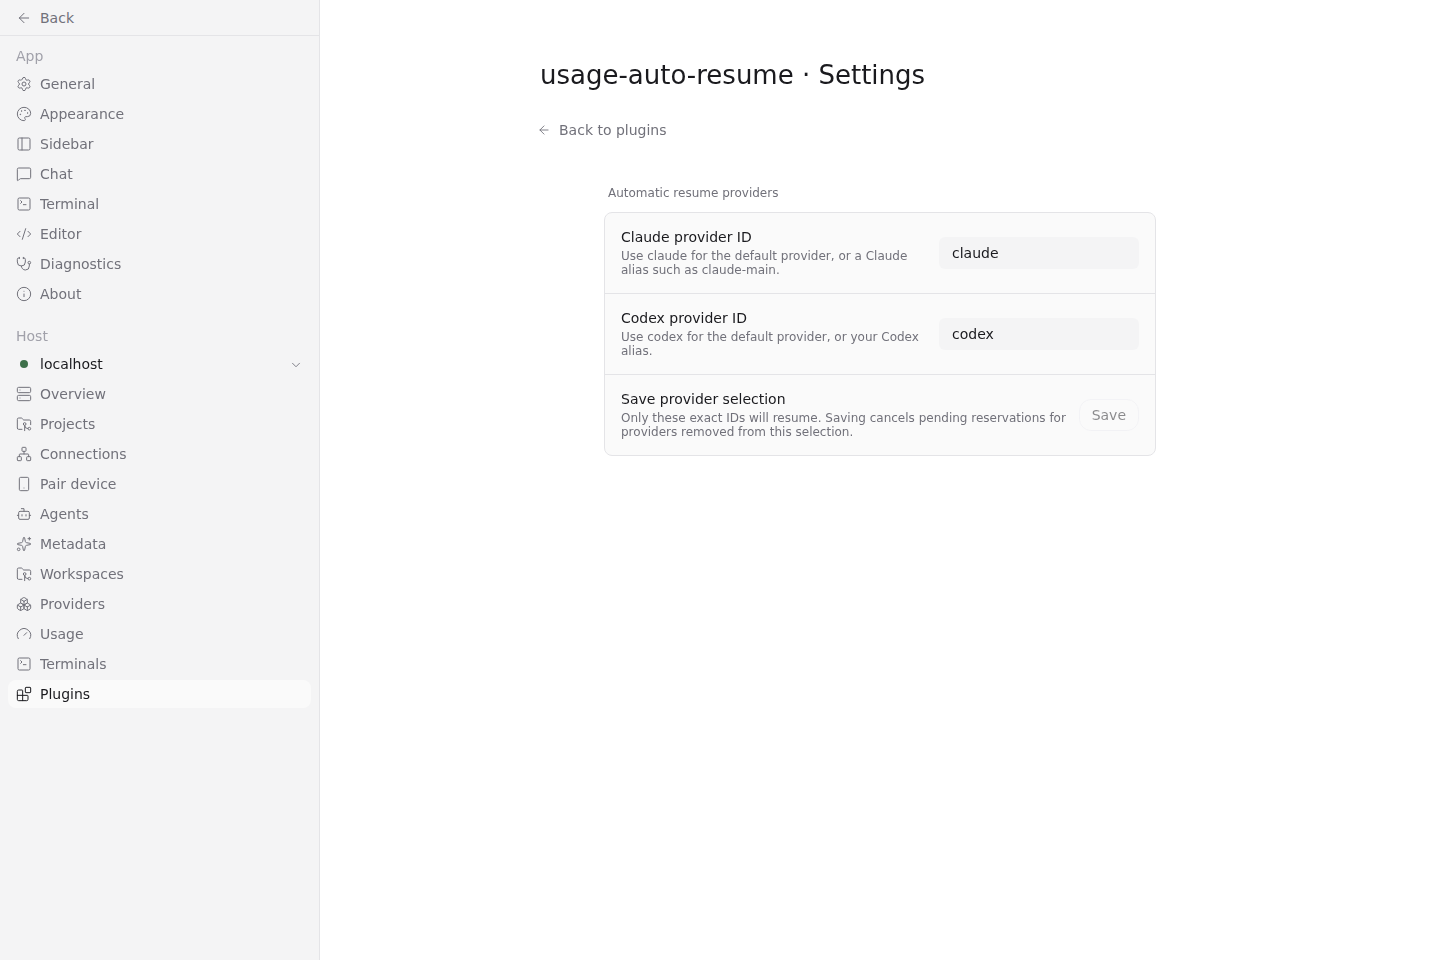
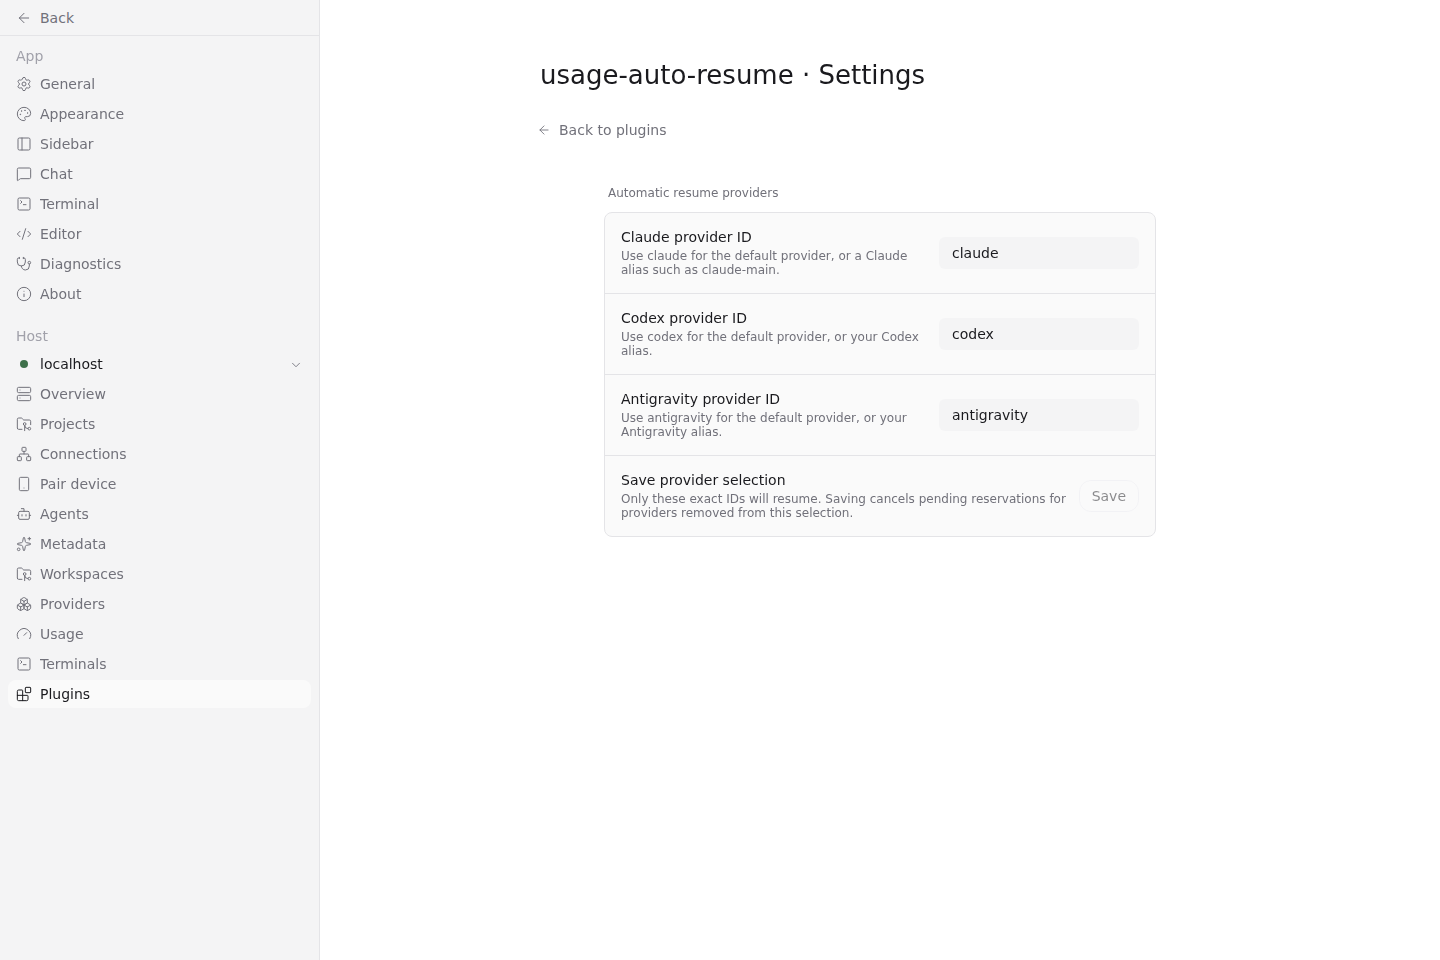
Narrow Antigravity support to what Paseo 0.11 provides
- Drop the Antigravity account email reader: Paseo 0.11 has no
  Antigravity usage source, so its reset comes from the notice or the
  15-minute recheck.
- Parse only the duration right after the reset marker, so compact
  units like "Resets in 97h9m49s" work and digits in a later request ID
  are not added to the wait. Cover agy's real quota notice.
- Drop the capacity_exhausted pattern and the resource_exhausted and
  quota_exceeded codes until they are tested; Paseo's Antigravity
  provider sends no error code.
- Keep settings version 1; the schema default fills antigravityProvider.
- Keep the startup scan's closing-message check Claude-only; Antigravity
  reports limits as turn failures.
- Update the provider settings screenshot.

diff --git a/server/resumer.test.ts b/server/resumer.test.ts
@@ -25,7 +25,6 @@ let dir: string;
 let store: JobStore;
 let clock: Date;
 const savedCodexHome = process.env.CODEX_HOME;
-const savedAntigravityConfigDir = process.env.ANTIGRAVITY_CONFIG_DIR;
 
 const jwt = (claims: Record<string, unknown>) =>
   ["header", Buffer.from(JSON.stringify(claims)).toString("base64url"), "signature"].join(".");
@@ -43,16 +42,12 @@ beforeEach(async () => {
   await signIn(join(dir, "claude"), ".claude.json", { oauthAccount: { emailAddress: MAIN_EMAIL } });
   await signIn(join(dir, "claude-sub"), ".claude.json", { oauthAccount: { emailAddress: SUB_EMAIL } });
   await signIn(join(dir, "codex"), "auth.json", { tokens: { id_token: jwt({ email: CODEX_EMAIL }), access_token: "opaque" } });
-  await signIn(join(dir, "antigravity"), "auth.json", { email: ANTIGRAVITY_EMAIL });
   process.env.CODEX_HOME = join(dir, "codex");
-  process.env.ANTIGRAVITY_CONFIG_DIR = join(dir, "antigravity");
 });
 
 afterEach(async () => {
   if (savedCodexHome === undefined) delete process.env.CODEX_HOME;
   else process.env.CODEX_HOME = savedCodexHome;
-  if (savedAntigravityConfigDir === undefined) delete process.env.ANTIGRAVITY_CONFIG_DIR;
-  else process.env.ANTIGRAVITY_CONFIG_DIR = savedAntigravityConfigDir;
   await rm(dir, { recursive: true, force: true });
 });
 
@@ -65,8 +60,6 @@ interface FakeOptions {
   usage?: Array<{ providerId: string; displayName: string; windows: Array<Record<string, unknown>> }>;
   claudeConfigDir?: string;
   claudeAliasEnv?: Record<string, string>;
-  antigravityConfigDir?: string;
-  antigravityAliasEnv?: Record<string, string>;
   readSettings?: () => Promise<ProviderSettings | null>;
 }
 
@@ -125,13 +118,6 @@ function fakePaseo(agents: Map<string, Partial<PaseoAgent>>, options: FakeOption
               env: { CLAUDE_CONFIG_DIR: options.claudeConfigDir ?? join(dir, "claude") },
             },
             "claude-sub": { extends: "claude", env: { CLAUDE_CONFIG_DIR: join(dir, "claude-sub") } },
-            "antigravity": {
-              env: { ANTIGRAVITY_CONFIG_DIR: options.antigravityConfigDir ?? join(dir, "antigravity") },
-            },
-            "antigravity-main": {
-              extends: "antigravity",
-              env: options.antigravityAliasEnv ?? { ANTIGRAVITY_CONFIG_DIR: options.antigravityConfigDir ?? join(dir, "antigravity") },
-            },
           },
         },
       }),
@@ -667,7 +653,7 @@ test("Antigravity 5h limit: schedules reset + 2 minutes and continues the same a
   assert.deepEqual(sent, [{ agentId: "g1", text: CONTINUE_PROMPT }]);
 });
 
-test("Antigravity limit without a reset in the notice uses the account's usage window", async () => {
+test("Antigravity limit without a reset in the notice rechecks in 15 minutes; Paseo has no Antigravity usage", async () => {
   const usage = [
     {
       providerId: "antigravity",
@@ -678,8 +664,8 @@ test("Antigravity limit without a reset in the notice uses the account's usage w
   const { api, resumer } = await setup({ g1: { provider: "antigravity" } }, { usage });
   await resumer.onTurnEnded(turnEnded("g1", "antigravity", failed("RESOURCE_EXHAUSTED: Quota exceeded")), api);
   const [job] = await store.list();
-  assert.equal(job?.resetAt, "2026-10-06T04:30:00.000Z");
-  assert.equal(job?.dueAt, "2026-10-06T04:32:00.000Z");
+  assert.equal(job?.resetAt, null);
+  assert.equal(job?.dueAt, "2026-10-06T03:15:00.000Z");
 });
 
 test("startup scan schedules an Antigravity agent that hit its limit before the plugin ran", async () => {
@@ -704,22 +690,12 @@ test("a custom Antigravity alias selection resumes only that alias", async () =>
     codexProvider: "codex",
     antigravityProvider: "antigravity-fast",
   };
-  const { api, sent, resumer } = await setup(
+  const { api, resumer } = await setup(
     {
       g1: { provider: "antigravity-fast" },
       g2: { provider: "antigravity" },
     },
-    {
-      readSettings: async () => customSettings,
-      antigravityAliasEnv: { ANTIGRAVITY_CONFIG_DIR: join(dir, "antigravity") },
-      usage: [
-        {
-          providerId: "antigravity",
-          displayName: `Antigravity (${ANTIGRAVITY_EMAIL})`,
-          windows: [{ id: "gemini-5h", label: "Session", usedPct: 100, resetsAt: "2026-10-06T04:00:00.000Z" }],
-        },
-      ],
-    },
+    { readSettings: async () => customSettings },
   );
   await resumer.onTurnEnded(turnEnded("g1", "antigravity-fast", failed("Resource exhausted")), api);
   await resumer.onTurnEnded(turnEnded("g2", "antigravity", failed("Resource exhausted")), api);

diff --git a/server/usage.ts b/server/usage.ts
@@ -83,71 +83,13 @@ async function codexEmail(codexHome: string): Promise<string | null> {
   );
 }
 
-function extractEmailFromObject(data: unknown): string | null {
-  if (!data || typeof data !== "object") return null;
-  const direct =
-    text(field(data, "email")) ??
-    text(field(field(data, "user"), "email")) ??
-    text(field(field(data, "account"), "email")) ??
-    text(field(field(data, "oauthAccount"), "emailAddress"));
-  if (direct) return direct;
-
-  const tokens = field(data, "tokens") ?? field(data, "token") ?? data;
-  const access = jwtClaims(field(tokens, "access_token") ?? field(data, "access_token"));
-  const id = jwtClaims(field(tokens, "id_token") ?? field(data, "id_token"));
-
-  return (
-    text(field(id, "email")) ??
-    text(field(access, "email")) ??
-    text(field(field(access, "https://api.openai.com/profile"), "email")) ??
-    text(field(field(id, "https://api.openai.com/profile"), "email"))
-  );
-}
-
-/** Antigravity stores CLI configuration under `~/.gemini/antigravity-cli`, or a configured directory. */
-async function antigravityEmail(configDir: string | null): Promise<string | null> {
-  const fileNames = ["auth.json", "credentials.json", "settings.json", ".antigravity.json"];
-  if (configDir) {
-    if (configDir.endsWith(".json")) {
-      const email = extractEmailFromObject(await readJson(configDir));
-      if (email) return email;
-    }
-    for (const name of fileNames) {
-      const email = extractEmailFromObject(await readJson(join(configDir, name)));
-      if (email) return email;
-    }
-  }
-
-  const defaultDirs = [
-    join(homedir(), ".gemini", "antigravity-cli"),
-    join(homedir(), ".antigravity"),
-    join(homedir(), ".gemini"),
-  ];
-
-  for (const dir of defaultDirs) {
-    for (const name of fileNames) {
-      const email = extractEmailFromObject(await readJson(join(dir, name)));
-      if (email) return email;
-    }
-  }
-
-  return null;
-}
-
 /** The account an agent of this provider runs under, read from the same home its CLI uses. */
-async function accountFor(paseo: UsageApi, provider: string, source: UsageSource): Promise<Account> {
+async function accountFor(paseo: UsageApi, provider: string, source: Exclude<UsageSource, "antigravity">): Promise<Account> {
   const { config } = await paseo.config.get();
   const env = providerEnv(config, provider);
   if (source === "codex") {
     const codexHome = envValue(env, "CODEX_HOME") ?? join(homedir(), ".codex");
     return { sourceId: "codex", email: await codexEmail(codexHome) };
-  }
-  if (source === "antigravity") {
-    const configDir =
-      envValue(env, "ANTIGRAVITY_CONFIG_DIR") ??
-      envValue(env, "ANTIGRAVITY_HOME") ??
-      envValue(env, "GEMINI_CONFIG_DIR");
-    return { sourceId: "antigravity", email: await antigravityEmail(configDir) };
   }
   return { sourceId: "claude", email: await claudeEmail(envValue(env, "CLAUDE_CONFIG_DIR")) };
 }
@@ -195,6 +137,8 @@ export function resetFromWindows(windows: readonly UsageWindow[], now: Date): Da
 
 /** Reset instant from the account's Paseo usage windows, or null when it cannot be known. */
 export async function usageResetAt(paseo: UsageApi, provider: string, source: UsageSource, now: Date): Promise<Date | null> {
+  // Paseo 0.11 has no Antigravity usage source, so only the notice can state its reset.
+  if (source === "antigravity") return null;
   try {
     const account = await accountFor(paseo, provider, source);
     if (!account?.email) return null;

diff --git a/server/limit.ts b/server/limit.ts
@@ -13,7 +13,6 @@ const LIMIT_PATTERNS = [
   /quota (?:has been )?(?:reached|exceeded|exhausted)/i,
   /resource[_ ]exhausted/i,
   /too many requests/i,
-  /(?:model[_ ])?capacity[_ ]exhausted/i,
 ];
 
 /** Context overflow and billing stops never renew on a clock, so they are not usage limits. */
@@ -30,13 +29,7 @@ const NOTICE_MAX_CHARS = 800;
 
 /** Explicit renewable-limit codes; a generic HTTP 429 can also mean a billing stop. */
 const LIMIT_CODES = new Set([
-  "rate_limit",
-  "rate_limit_exceeded",
-  "rate_limit_error",
-  "usage_limit_reached",
-  "usage_limit_exceeded",
-  "resource_exhausted",
-  "quota_exceeded",
+  "rate_limit", "rate_limit_exceeded", "rate_limit_error", "usage_limit_reached", "usage_limit_exceeded",
 ]);
 
 export interface LimitStop {
@@ -132,6 +125,8 @@ const UNIT_MS: Record<string, number> = {
   days: 86_400_000,
 };
 
+const UNIT = "(seconds?|secs?|minutes?|mins?|hours?|hrs?|days?|[smh])";
+
 /** Extracts the renewal instant from a limit notice. */
 export function parseResetAt(text: string, observedAt: Date): Date | null {
   return epochResetAt(text) ?? relativeResetAt(text, observedAt) ?? absoluteResetAt(text, observedAt);
@@ -148,11 +143,15 @@ function epochResetAt(text: string): Date | null {
 function relativeResetAt(text: string, observedAt: Date): Date | null {
   const marker = /(?:try again|resets?|retry|available again|renews?)\s+(?:in|after)\s+/i.exec(text);
   if (!marker) return null;
-  const start = marker.index + marker[0].length;
-  const suffix = text.slice(start, start + 100);
-  const units = /(\d+(?:\.\d+)?)\s*(seconds?|secs?|minutes?|mins?|hours?|hrs?|days?|[smh])(?=\b|\d)/gi;
+  // Only the duration right after the marker ("2 hours 13 minutes", "6h53m44s"); later digits,
+  // such as a request ID, are not part of it.
+  const duration = new RegExp(`^(?:\\s*(?:,|and)?\\s*\\d+(?:\\.\\d+)?\\s*${UNIT}(?![a-z]))+`, "i").exec(
+    text.slice(marker.index + marker[0].length),
+  );
+  if (!duration) return null;
+  const units = new RegExp(`(\\d+(?:\\.\\d+)?)\\s*${UNIT}`, "gi");
   let totalMs = 0;
-  for (let match = units.exec(suffix); match; match = units.exec(suffix)) {
+  for (let match = units.exec(duration[0]); match; match = units.exec(duration[0])) {
     totalMs += Number(match[1]) * (UNIT_MS[match[2]!.toLowerCase()] ?? 0);
   }
   return totalMs > 0 ? new Date(observedAt.getTime() + totalMs) : null;

diff --git a/server/limit.test.ts b/server/limit.test.ts
@@ -91,7 +91,7 @@ test("a long discussion stays excluded even when its last chunk mentions a limit
 });
 
 test("explicit rate-limit failure codes work without matching provider wording", () => {
-  for (const code of ["rate_limit", "rate_limit_exceeded", "rate_limit_error", "usage_limit_reached", "usage_limit_exceeded", "resource_exhausted", "quota_exceeded"]) {
+  for (const code of ["rate_limit", "rate_limit_exceeded", "rate_limit_error", "usage_limit_reached", "usage_limit_exceeded"]) {
     assert.deepEqual(detectLimitStop({ kind: "failed", error: { code, message: "Request rejected" } }, [prompt], observedAt), { resetAt: null });
   }
   assert.deepEqual(detectLimitStop({ kind: "failed", error: {
@@ -105,6 +105,17 @@ test("Antigravity Google quota refusal carries compact relative reset units", ()
   const stop = detectLimitStop(failed(message), [prompt], observedAt);
   const expectedMs = observedAt.getTime() + (6 * 3600 + 53 * 60 + 44) * 1000;
   assert.deepEqual(stop, { resetAt: new Date(expectedMs) });
+});
+
+test("Antigravity's real quota notice: Paseo passes agy's result error through unchanged", () => {
+  const message = "Individual quota reached. Please upgrade your subscription to increase your limits. Resets in 97h9m49s.";
+  const stop = detectLimitStop(failed(message), [prompt], observedAt);
+  assert.deepEqual(stop, { resetAt: new Date(observedAt.getTime() + (97 * 3600 + 9 * 60 + 49) * 1000) });
+});
+
+test("only the duration right after the marker counts, not digits in a later request ID", () => {
+  const stop = detectLimitStop(failed("Rate limit reached. Try again in 20s. (request id: req_8h3kd5m2)"), [prompt], observedAt);
+  assert.deepEqual(stop, { resetAt: new Date(observedAt.getTime() + 20_000) });
 });
 
 test("generic failure codes and billing/context errors do not trigger code-based resumes", () => {

diff --git a/shared/settings.ts b/shared/settings.ts
@@ -30,17 +30,9 @@ export const DEFAULT_PROVIDER_SETTINGS = ProviderSettingsSchema.parse({});
 export const providerSettings = defineSettings({
   id: "providers",
   scope: "host",
-  version: 2,
+  // Version 1 values without antigravityProvider still parse; the schema default fills it in.
+  version: 1,
   schema: ProviderSettingsSchema,
-  migrate: (values: unknown, fromVersion: number) => {
-    if (fromVersion < 2 && typeof values === "object" && values !== null) {
-      return {
-        antigravityProvider: "antigravity",
-        ...values,
-      };
-    }
-    return values;
-  },
 });
 
 /** Exact selection only: another alias extending the same CLI is a separate opt-in. */

diff --git a/server/resumer.ts b/server/resumer.ts
@@ -158,7 +158,7 @@ export function createResumer(options: {
       let stop = null;
       if (agent.status === "error" && agent.lastError) {
         stop = detectLimitStop({ kind: "failed", error: { message: agent.lastError } }, [], observedAt);
-      } else if (source === "claude" || source === "antigravity") {
+      } else if (source === "claude") {
         stop = detectLimitStop({ kind: "completed" }, await timelineTail(api, agent.id), observedAt);
       }
       if (stop) await schedule(api, agent, source, stop.resetAt, observedAt, { onlyIfNone: true });

diff --git a/README.ko.md b/README.ko.md
@@ -6,7 +6,7 @@
 
 ![날짜별 자동 재개 예약과 켜기·끄기](assets/auto-resume.png)
 
-![기본 claude·codex 대상 설정](assets/provider-settings.png)
+![기본 claude·codex·antigravity 대상 설정](assets/provider-settings.png)
 
 Codex, Claude 또는 Antigravity agent가 usage/rate limit으로 멈추면 reset 시각 + 2분에 **같은 agent**에 continue prompt를 한 번 보내는 Paseo plugin이다. 새 agent 생성, provider 전환은 없다.
 
@@ -28,10 +28,10 @@ Codex, Claude 또는 Antigravity agent가 usage/rate limit으로 멈추면 reset
 
 ## 동작
 
-1. `agent.turn_ended`에서 limit 종료를 보수적으로 감지한다. 명시적인 renewable limit 오류 코드(`rate_limit`, `rate_limit_exceeded`, `rate_limit_error`, `usage_limit_reached`, `usage_limit_exceeded`, `resource_exhausted`, `quota_exceeded`)가 있으면 문구·길이에 의존하지 않고 먼저 판정한다. 코드가 없으면 실패 메시지, 해당 turn의 error/warning 항목, turn을 마친 마지막 assistant 메시지(Claude는 limit을 이 형태로 알린다) 중 800자 이하의 짧은 notice를 본다. 마지막 assistant 메시지는 같은 `messageId`의 조각만 합치며, 다른 ID의 앞 답변은 붙이지 않는다. ID가 없으면 마지막 항목만 검사한다. Context window 초과, billing/credit 부족, 일반 오류, 취소된 turn은 대상이 아니다.
+1. `agent.turn_ended`에서 limit 종료를 보수적으로 감지한다. 명시적인 renewable limit 오류 코드(`rate_limit`, `rate_limit_exceeded`, `rate_limit_error`, `usage_limit_reached`, `usage_limit_exceeded`)가 있으면 문구·길이에 의존하지 않고 먼저 판정한다. 코드가 없으면 실패 메시지, 해당 turn의 error/warning 항목, turn을 마친 마지막 assistant 메시지(Claude는 limit을 이 형태로 알린다) 중 800자 이하의 짧은 notice를 본다. 마지막 assistant 메시지는 같은 `messageId`의 조각만 합치며, 다른 ID의 앞 답변은 붙이지 않는다. ID가 없으면 마지막 항목만 검사한다. Context window 초과, billing/credit 부족, 일반 오류, 취소된 turn은 대상이 아니다.
 2. Reset 시각은 다음 순서로 정한다.
    1. Notice에 적힌 시각: `resets 3pm (Asia/Seoul)`, `try again at 4:13 AM`, `try again in 2 hours`, `Resets in 6h53m44s`, `|<epoch>`, ISO 시각.
-   2. 해당 account의 Paseo usage window(`providers.listUsage()`): 소진된 window가 있으면 그 window, 없으면 5-hour/session window의 `resetsAt`을 쓴다. Paseo 0.11부터 이 목록은 source마다 로그인 account별 항목(`Claude (<email>)`, `Codex (<email>)`, `Antigravity (<email>)`)을 돌려주고, 다른 agent가 쓰는 account도 섞인다. 그래서 agent가 실제로 쓰는 account의 email을 그 CLI의 home에서 읽어 같은 email의 항목만 사용한다. 선택한 Claude provider는 `CLAUDE_CONFIG_DIR/.claude.json`의 `oauthAccount.emailAddress`, Codex는 `CODEX_HOME`(기본 `~/.codex`)`/auth.json` token의 email claim, Antigravity는 `ANTIGRAVITY_CONFIG_DIR`(또는 `~/.gemini/antigravity-cli`)의 `auth.json`/`credentials.json`/`settings.json`의 account email만 읽는다. Token 자체는 저장하거나 로그에 남기지 않는다. Email을 알 수 없거나 같은 email의 항목이 없으면 다음 단계로 넘어간다.
+   2. 해당 account의 Paseo usage window(`providers.listUsage()`): 소진된 window가 있으면 그 window, 없으면 5-hour/session window의 `resetsAt`을 쓴다. Paseo 0.11부터 이 목록은 source마다 로그인 account별 항목(`Claude (<email>)`, `Codex (<email>)`)을 돌려주고, 다른 agent가 쓰는 account(Claude Sub의 `CLAUDE_CONFIG_DIR`, OpenCode의 ChatGPT 로그인 등)도 섞인다. 그래서 agent가 실제로 쓰는 account의 email을 그 CLI의 home에서 읽어 같은 email의 항목만 사용한다. 선택한 Claude provider는 `CLAUDE_CONFIG_DIR/.claude.json`의 `oauthAccount.emailAddress`, Codex는 `CODEX_HOME`(기본 `~/.codex`)`/auth.json` token의 email claim만 읽는다. Token 자체는 저장하거나 로그에 남기지 않는다. Email을 알 수 없거나 같은 email의 항목이 없으면 다음 단계로 넘어간다. Paseo에는 Antigravity usage 정보가 없으므로 Antigravity는 이 단계를 건너뛰고 Antigravity 파일도 읽지 않는다.
    3. 알 수 없으면 15분 뒤 다시 확인한다. 이때 usage window가 확인되면 그 시각으로 다시 예약하고, 여전히 모르면 continue를 보낸다. 다시 limit에 걸리면 같은 절차를 반복하며, 연속 24회 실패하면 중단한다.
 3. Agent당 job은 하나이며 `(agentId, resetAt)` 기준으로 idempotent하다. 같은 failure가 반복 수신되어도 job은 하나만 남는다.
 4. 실행 시각에 agent를 다시 조회한다. 다음 중 하나라도 해당하면 보내지 않고 job을 취소한다.

diff --git a/OVERVIEW.md b/OVERVIEW.md
@@ -4,6 +4,6 @@ The Auto Resume sidebar screen lists pending resumes by day, with the send time,
 
 Requires Paseo daemon and app 0.11.x, with plugins enabled. The default provider IDs are `codex`, `claude`, and `antigravity`. In the plugin settings, choose the exact Claude, Codex, and Antigravity IDs to resume and save the selection. For example, setting the Claude ID to `claude-main` replaces `claude` and does not include `claude-sub`. A custom ID must use the corresponding CLI, normally by extending its built-in provider. The selection is stored per daemon; saving cancels pending reservations for removed providers. The plugin uses the accounts already signed in through their CLIs.
 
-To match account usage, the daemon reads the account email from Claude's `.claude.json`, Codex's `auth.json`, or Antigravity's `auth.json`/`credentials.json`/`settings.json`, using the configured `CLAUDE_CONFIG_DIR`, `CODEX_HOME`, or `ANTIGRAVITY_CONFIG_DIR` (or `ANTIGRAVITY_HOME`). It reads agent state, recent timeline notices and Paseo usage information, stores resume jobs under `PASEO_HOME/plugin-data/usage-auto-resume/jobs.json`, and sends a fixed continue prompt to the existing agent through Paseo. The prompt asks the parent to continue unfinished work and any unfinished subagents stopped by the limit. Login tokens are not included in saved jobs, logs or the continue prompt.
+To match account usage, the daemon reads the account email from Claude's `.claude.json` or the email claims in Codex's `auth.json`, using the configured `CLAUDE_CONFIG_DIR` or `CODEX_HOME`. Paseo has no Antigravity usage information, so Antigravity resumes rely on the reset time stated in the notice, else the 15-minute recheck. It reads agent state, recent timeline notices and Paseo usage information, stores resume jobs under `PASEO_HOME/plugin-data/usage-auto-resume/jobs.json`, and sends a fixed continue prompt to the existing agent through Paseo. The prompt asks the parent to continue unfinished work and any unfinished subagents stopped by the limit. Login tokens are not included in saved jobs, logs or the continue prompt.
 
 A new turn, a newer user message, an archived or closed agent, or an agent running or awaiting permission cancels the resume. Unreadable provider settings pause automatic resumes instead of enabling defaults. Reservations survive restarts, but need a lifecycle event or the Auto Resume screen to supply the API before they can run again. If the reset time remains unknown, the plugin rechecks after 15 minutes and may retry the continue prompt, stopping after 24 consecutive unsuccessful automatic continues. Context overflow and billing failures are excluded. Subagent continuation depends on the parent's available provider tools.

diff --git a/README.md b/README.md
@@ -10,7 +10,7 @@ The actual Paseo web interface, captured with sample reservations in an isolated
 
 ![Auto Resume reservations grouped by day, with enabled and skipped jobs](assets/auto-resume.png)
 
-![Provider settings with the public defaults claude and codex](assets/provider-settings.png)
+![Provider settings with the public defaults claude, codex and antigravity](assets/provider-settings.png)
 
 ## Install
 
@@ -53,7 +53,7 @@ The prompt asks the parent agent to review saved progress and resume unfinished 
 
 ## Data access
 
-To distinguish accounts, the daemon reads the selected provider's configured CLI home. It reads Claude's `oauthAccount.emailAddress` from `.claude.json`, email claims from Codex's `auth.json` tokens, or Antigravity's `auth.json`/`credentials.json`/`settings.json` account email, using the provider's configured `CLAUDE_CONFIG_DIR`, `CODEX_HOME`, or `ANTIGRAVITY_CONFIG_DIR` (or `ANTIGRAVITY_HOME`). Only matching account usage entries are used. Tokens are not stored in jobs, logged or sent in the continue prompt.
+To distinguish accounts, the daemon reads the selected provider's configured CLI home. It reads Claude's `oauthAccount.emailAddress` from `.claude.json` or email claims from Codex's `auth.json` tokens, using the provider's configured `CLAUDE_CONFIG_DIR` or `CODEX_HOME`. Only matching account usage entries are used. Paseo has no Antigravity usage information, so Antigravity resumes use the reset time stated in the notice, else the 15-minute recheck; no Antigravity files are read. Tokens are not stored in jobs, logged or sent in the continue prompt.
 
 The plugin reads agent state, recent timeline notices, provider configuration and usage information through Paseo. Resume jobs are stored in:
 

diff --git a/assets/README.md b/assets/README.md
@@ -3,7 +3,7 @@
 Captured on October 12, 2026 from the real Paseo 0.11.2 bundled web app and the Usage Auto Resume plugin, using Chromium through Playwright at a 1440 × 960 desktop viewport.
 
 - `auto-resume.png` shows three sample reservations in an isolated daemon and demo workspace. The enabled and skipped states, countdowns, day grouping and titles are rendered by the plugin. Reservations were seeded as demo data; they are not records of real provider-limit failures. The demo agents received no task prompts.
-- `provider-settings.png` shows the real settings screen with the public defaults `claude` and `codex`.
+- `provider-settings.png` shows the real settings screen with the public defaults `claude`, `codex` and `antigravity`. It was recaptured on October 14, 2026 for v1.1.0 from the same bundled web app at the same viewport, in an isolated daemon with no agents.
 
 No production conversation content, account emails or credentials are included. The screenshots are direct browser captures; the displayed interface was not retouched.
 
